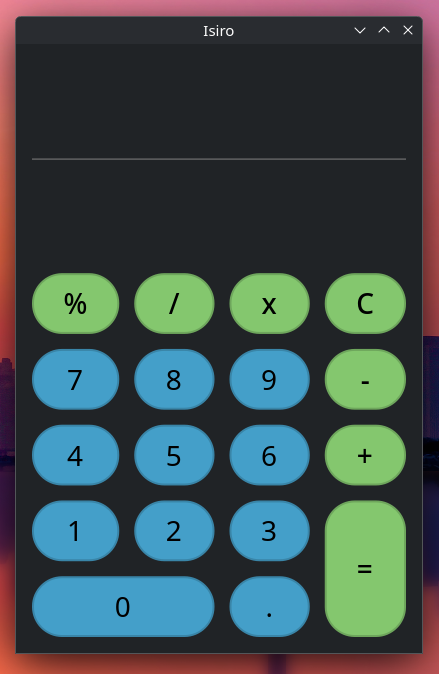
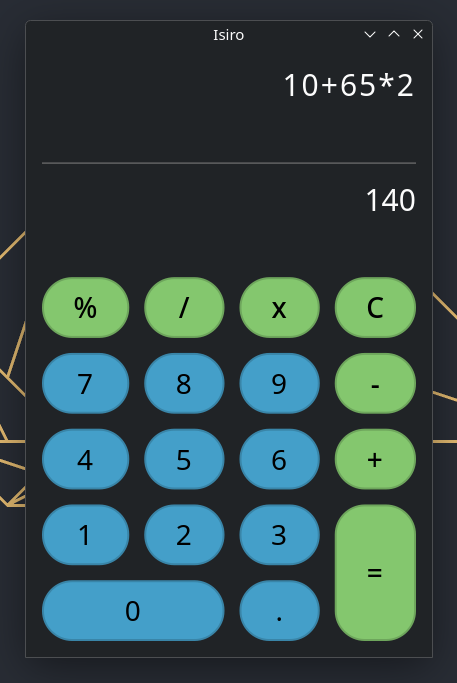
update readme and screenshots

diff --git a/README.md b/README.md
@@ -1,7 +1,9 @@
 # isiro
+
 A calculator application built with [Slint UI](https://slint.dev/).
 
 ## Build and Run the Application
+
 Requires [Rust](https://www.rust-lang.org/) to be installed.
 
 ```bash
@@ -9,6 +11,7 @@ cargo run --release
 ```
 
 ## Install the Application
+
 Ensure the Rust path is included in your environment variables.
 
 ```bash
@@ -17,28 +20,109 @@ cargo install --path .
 
 ## isiro in Breeze Style (KDE Plasma, Linux)
 
-| Dark Theme | Light Theme |
-|------------|-------------|
+| Dark Theme                                                                                                                                 | Light Theme                                                                                                                                      |
+| ------------------------------------------------------------------------------------------------------------------------------------------ | ------------------------------------------------------------------------------------------------------------------------------------------------ |
 | <img width="439" height="674" alt="Breeze_Native" src="https://github.com/user-attachments/assets/a8fff5c0-1f36-4f2c-8c77-1e66243a2c52" /> | <img width="446" height="681" alt="Breeze_Native_Light" src="https://github.com/user-attachments/assets/7d1fcc96-384f-4afc-a345-98df6c411609" /> |
-
-
-
-
-
 
 ## isiro in Fluent Style (Windows 11)
 
-| Dark Theme | Light Theme |
-|------------|-------------|
-| <img width="431" height="669" alt="Windows_Native" src="https://github.com/user-attachments/assets/978d1f37-94b1-431b-93fc-ffbc972c8d60" /> | <img width="435" height="669" alt="Windows_Native_Light" src="https://github.com/user-attachments/assets/9efaebe7-a721-46d2-8975-60f91b0edfc4" />|
+| Dark Theme                                                                                                                                  | Light Theme                                                                                                                                       |
+| ------------------------------------------------------------------------------------------------------------------------------------------- | ------------------------------------------------------------------------------------------------------------------------------------------------- |
+| <img width="431" height="669" alt="Windows_Native" src="https://github.com/user-attachments/assets/978d1f37-94b1-431b-93fc-ffbc972c8d60" /> | <img width="435" height="669" alt="Windows_Native_Light" src="https://github.com/user-attachments/assets/9efaebe7-a721-46d2-8975-60f91b0edfc4" /> |
 
+## Build and Run on Android
 
+To build and deploy `isiro` for Android, ensure you have the Android SDK, NDK (version 29.0.13846066 recommended), and platform 30 installed. The application uses the `backend-android-activity-06` feature of the Slint crate.
 
+### Prerequisites
 
+1. Install the Android toolchain for Rust:
+   ```bash
+   rustup target add aarch64-linux-android
+   ```
+2. Install `cargo-apk` for building and deploying Android APKs:
+   ```bash
+   cargo install cargo-apk
+   ```
+3. Set up the following environment variables:
+   - `ANDROID_HOME`: The directory where your Android SDK is located (e.g., `$HOME/Android/Sdk`).
+   - `ANDROID_NDK_ROOT`: The directory where your Android NDK is located (e.g., `$HOME/Android/Sdk/ndk/29.0.13846066`).
+   - `JAVA_HOME`: The directory where your Java compiler (`javac`) is located (e.g., `/opt/android-studio/jbr`). Optional if `javac` is in your `$PATH`.
+
+   For Bash/Zsh:
+   ```bash
+   export ANDROID_HOME=$HOME/Android/Sdk
+   export ANDROID_NDK_ROOT=$ANDROID_HOME/ndk/29.0.13846066
+   export JAVA_HOME=/opt/android-studio/jbr
+   export PATH=$ANDROID_HOME/platform-tools:$PATH
+   ```
+
+   For Fish:
+   ```fish
+   set -x ANDROID_HOME $HOME/Android/Sdk
+   set -x ANDROID_NDK_ROOT $ANDROID_HOME/ndk/29.0.13846066
+   set -x JAVA_HOME /opt/android-studio/jbr
+   set -x PATH $ANDROID_HOME/platform-tools $PATH
+   ```
+
+4. Ensure your `Cargo.toml` includes the Slint crate with the `backend-android-activity-06` feature and specifies a `cdylib` crate type:
+   ```toml
+   [lib]
+   crate-type = ["cdylib"]
+
+   [dependencies]
+   slint = { version = "1.6", features = ["backend-android-activity-06"] }
+   ```
+
+5. For release builds, generate a signing key:
+   ```bash
+   keytool -genkeypair \
+       -v \
+       -keystore ~/.android/isiro-release-key.jks \
+       -keyalg RSA \
+       -keysize 2048 \
+       -validity 10000 \
+       -alias isiro
+   ```
+
+### Building and Running
+
+Ensure a physical device or emulator is running. Compile and run the application with:
+
+```bash
+cargo apk run --target aarch64-linux-android --lib
+```
+
+For a release build:
+
+```bash
+cargo apk run --target aarch64-linux-android --lib --release
+```
+
+### Notes
+
+- The Android backend uses the `android-activity` crate, re-exported under `slint::android::android_activity`.
+- The entry point for the Android application is the `android_main` function, which must be marked with `#[unsafe(no_mangle)]`. Example:
+  ```rust
+  #[unsafe(no_mangle)]
+  fn android_main(app: slint::android::AndroidApp) {
+      slint::android::init(app).unwrap();
+      slint::slint! {
+          export component MainWindow inherits Window {
+              Text { text: "Hello World"; }
+          }
+      }
+      MainWindow::new().unwrap().run().unwrap();
+  }
+  ```
+- Refer to the [Android Developer’s Guide](https://developer.android.com/ndk/guides) for detailed setup instructions for the Android SDK and NDK.
+- Alternative build tools like `xbuild` can be used, but `cargo-apk` is recommended for simplicity.
 
 ## License
+
 This project is licensed under the [GNU GPL 3.0](LICENSE).
 
 ## Acknowledgments
+
 - [Slint UI](https://slint.dev/): For providing the framework to build the user interface.
 - [Rust](https://www.rust-lang.org/): For the programming language used to develop this application.
